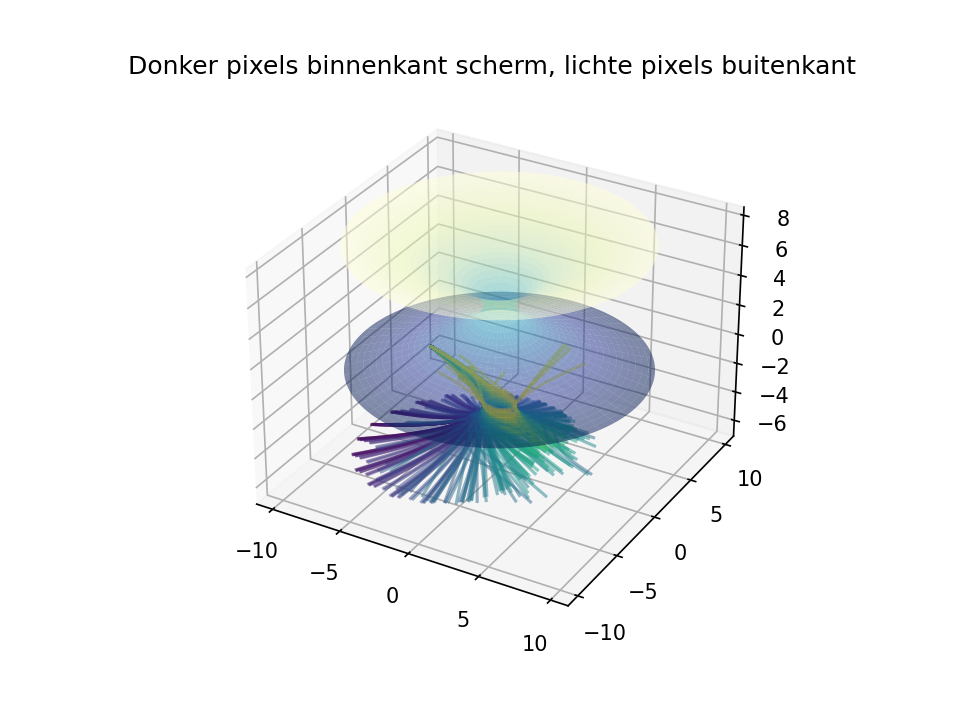
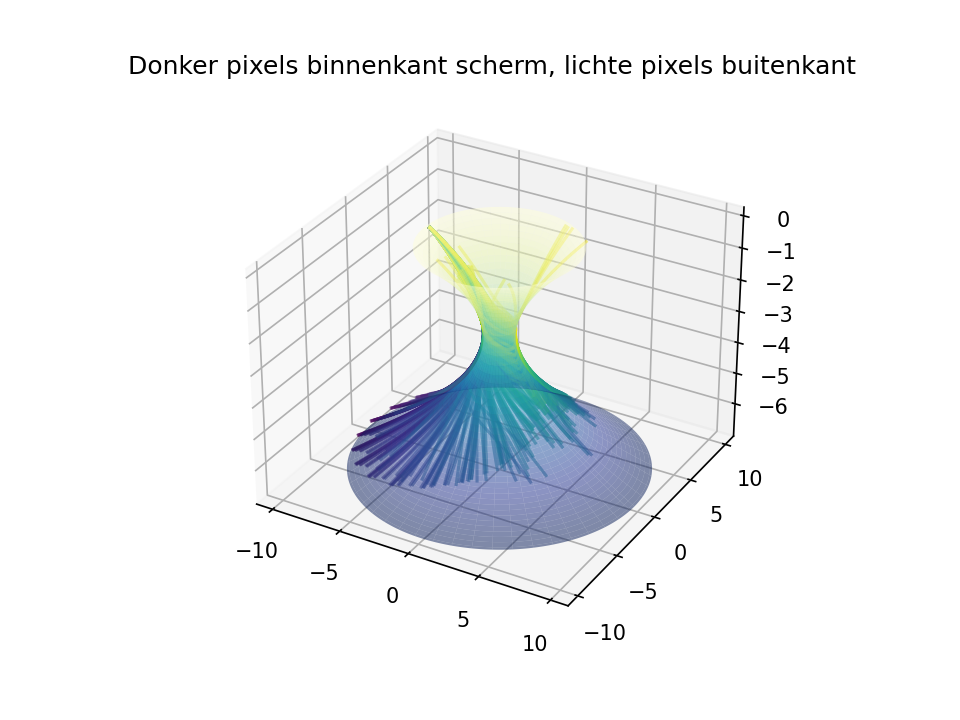
geodesics shift fix

Changed region(s): [[0.25, 0.2139, 0.8438, 0.7639], [0.8125, 0.3361, 0.8438, 0.3972]]

diff --git a/WormholeRayTracer.py b/WormholeRayTracer.py
@@ -310,7 +310,7 @@ def Grid_constr_3D(q, N_a, R, w, Sl_old = None):
     #        w: ratio 
     #output: 2D boolean array
     Nz, Ny =  q[0].shape
-    if Sl_old == None:
+    if np.any(Sl_old == None):
         Sl_old = np.zeros((Nz, Ny), dtype=bool)
     grid_slice = np.zeros((Nz, Ny), dtype=bool)
     Sl_old_inv = ~Sl_old
@@ -363,9 +363,9 @@ def Make_Pict_RGBP(q, Grid):
                 elif phi < np.pi and th < np.pi/2:
                     row.append([0.5, 0.5, 0])
 
-            if r < 0 and np.linalg.norm(row[-1]) != 0:
-                # invert color for points on oposite side of wormhol
-                row[-1] = [(1 - row[-1][k]) for k in range(3)]
+                if r < 0:
+                    # invert color for points on oposite side of wormhol
+                    row[-1] = [(1 - row[-1][k]) for k in range(3)]
 
         pict.append(np.array(row))
 
@@ -486,8 +486,18 @@ def gdsc(Motion, name, path):
             cl_i =cl[ind[ij]]
             ax.plot(X[:,i,j], Y[:,i,j], Z[:,i,j], color = cl_i, alpha=0.5)
     # adds surface
+    
+    S_l = np.linspace(np.max(l), np.min(l), len(l)+1) 
+    S_phi = np.linspace(0, 2*np.pi, len(l))
+    S_L, S_PHI = np.meshgrid(dneg_r(S_l), S_phi) # radius is r(l)
+
+    # tile want symmetrisch voor rotaties, onafhankelijk van phi
+    # Integraal voor Z richting zoals gedefinieerd in de paper
+    S_Z = np.tile(Dia.imb_f_int(S_l), (len(l), 1)) #z(l)
+
+    S_X, S_Y = S_L*np.cos(S_PHI), S_L*np.sin(S_PHI)
+    ax.plot_surface(S_X, S_Y, S_Z, cmap=plt.cm.YlGnBu_r, alpha=0.5)
     ax.set_title("Donker pixels binnenkant scherm, lichte pixels buitenkant")
-    Dia.inb_diagr([-10, 10], 1000, ax)
     plt.savefig(os.path.join(path, name), dpi=150)
     #plt.show()
 
@@ -495,8 +505,9 @@ if __name__ == '__main__':
     path = os.getcwd()
     #initial position in spherical coord
     #for radius in range(1, 15):
-    initial_q = np.array([5, np.pi, np.pi/2])
-    Motion1, Photo1, CM1 = Simulate_DNeg(Smpl.Sympl_DNeg, 0.01, 1500, initial_q, 20**2, 20**2, '2D')
+    initial_q = np.array([10, np.pi, np.pi/2])
+    Grid_dimension = '3D'
+    Motion1, Photo1, CM1 = Simulate_DNeg(Smpl.Sympl_DNeg, 0.01, 1500, initial_q, 20**2, 20**2, Grid_dimension)
     # Motion2, Photo2, CM2 = Simulate_DNeg(rk.runge_kutta, 0.01, 1000, 9, 20**2, 20**2)
     # np.save('ray_solved', Motion1)
     plot_CM(CM1, ['H', 'b', 'B**2'], "Pictures/CM DNeg Sympl"+str(initial_q)+".png", path)
@@ -513,5 +524,5 @@ if __name__ == '__main__':
     gdsc(Motion1, "Pictures/geodesics DNeg Sympl"+str(initial_q)+".png", path)
     # gdsc(Motion2)
         
-    cv2.imwrite(os.path.join(path, "Pictures/Image 2DGr DNeg Sympl"+str(initial_q)+".png"), 255*Photo1)
+    cv2.imwrite(os.path.join(path, "Pictures/Image "+Grid_dimension+"Gr DNeg Sympl"+str(initial_q)+".png"), 255*Photo1)
     #cv2.imwrite(path + '/DNeg Kutta.png', 255*Photo2)
